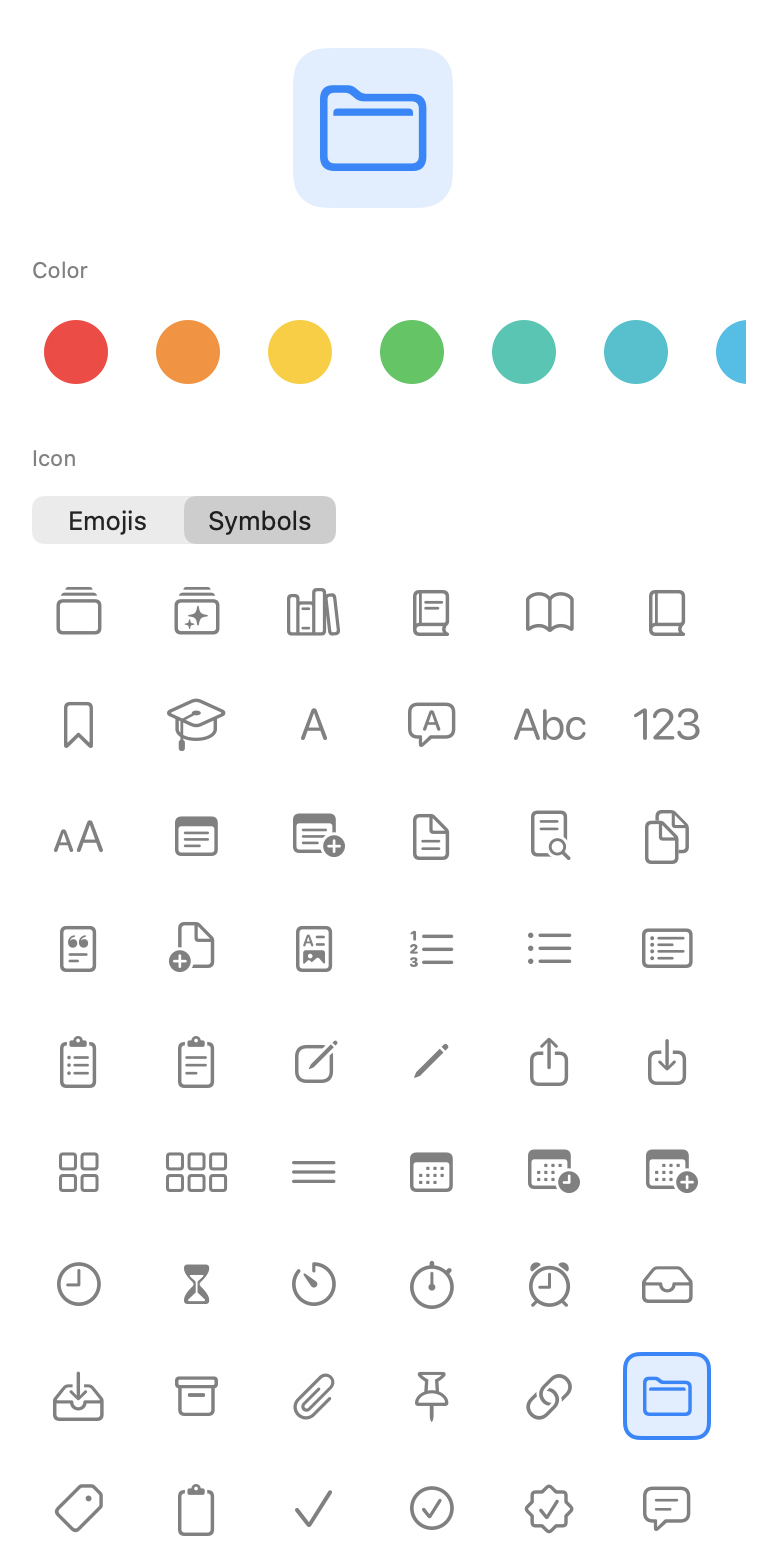
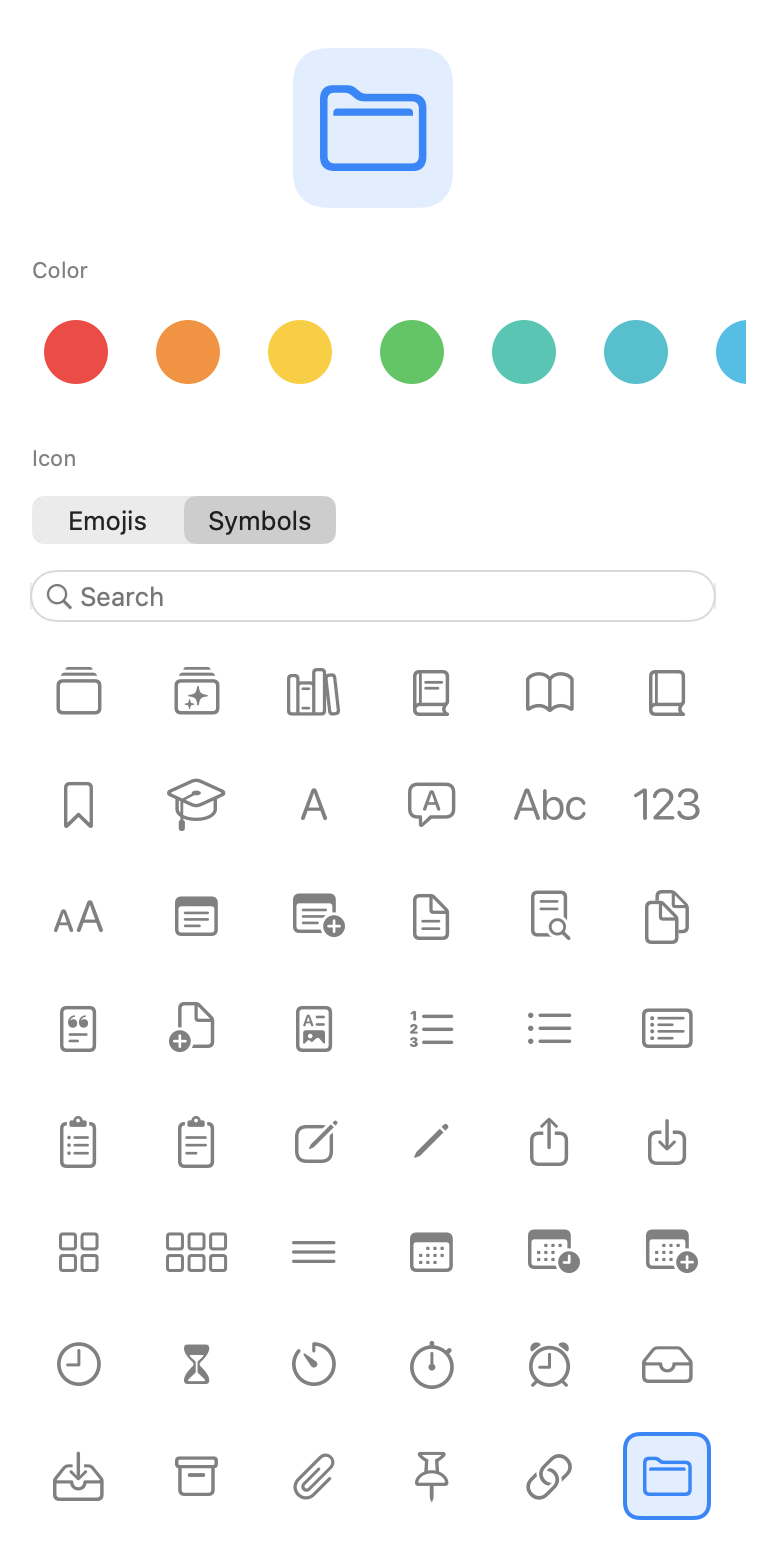
fix: put search in the catalog so stills can show it
Nav-bar searchable never appeared in offscreen captures. Use the
system search field above the grid instead.

diff --git a/Sources/IconPickerKit/IconPickerSearch.swift b/Sources/IconPickerKit/IconPickerSearch.swift
@@ -1,21 +1,105 @@
 import SwiftUI
 
-extension View {
-    func iconPickerSearch(
-        text: Binding<String>,
-        debounce: Binding<SearchDebounce>,
-        origin: ContinuousClock.Instant,
-        prompt: String) -> some View
-    {
-        self
-            .searchable(text: text, prompt: Text(prompt))
-            .onChange(of: text.wrappedValue) { _, new in
-                debounce.wrappedValue.push(new, at: ContinuousClock.now - origin)
+struct IconPickerSearchField: View {
+    @Binding var text: String
+    @Binding var debounce: SearchDebounce
+    var origin: ContinuousClock.Instant
+    var prompt: String
+
+    var body: some View {
+        PlatformSearchField(text: self.$text, prompt: self.prompt)
+            .frame(minHeight: 28)
+            .onChange(of: self.text) { _, new in
+                self.debounce.push(new, at: ContinuousClock.now - self.origin)
             }
-            .task(id: text.wrappedValue) {
-                try? await Task.sleep(for: debounce.wrappedValue.interval)
+            .task(id: self.text) {
+                try? await Task.sleep(for: self.debounce.interval)
                 guard !Task.isCancelled else { return }
-                debounce.wrappedValue.flush(at: ContinuousClock.now - origin)
+                self.debounce.flush(at: ContinuousClock.now - self.origin)
             }
     }
 }
+
+#if os(macOS)
+import AppKit
+
+struct PlatformSearchField: NSViewRepresentable {
+    @Binding var text: String
+    var prompt: String
+
+    func makeNSView(context: Context) -> NSSearchField {
+        let field = NSSearchField()
+        field.placeholderString = self.prompt
+        field.delegate = context.coordinator
+        field.sendsSearchStringImmediately = true
+        field.sendsWholeSearchString = false
+        return field
+    }
+
+    func updateNSView(_ field: NSSearchField, context: Context) {
+        if field.stringValue != self.text {
+            field.stringValue = self.text
+        }
+        field.placeholderString = self.prompt
+        context.coordinator.text = self.$text
+    }
+
+    func makeCoordinator() -> Coordinator {
+        Coordinator(text: self.$text)
+    }
+
+    final class Coordinator: NSObject, NSSearchFieldDelegate {
+        var text: Binding<String>
+
+        init(text: Binding<String>) {
+            self.text = text
+        }
+
+        func controlTextDidChange(_ notification: Notification) {
+            let field = notification.object as? NSSearchField
+            self.text.wrappedValue = field?.stringValue ?? ""
+        }
+    }
+}
+#else
+import UIKit
+
+struct PlatformSearchField: UIViewRepresentable {
+    @Binding var text: String
+    var prompt: String
+
+    func makeUIView(context: Context) -> UISearchBar {
+        let bar = UISearchBar()
+        bar.placeholder = self.prompt
+        bar.searchBarStyle = .minimal
+        bar.autocapitalizationType = .none
+        bar.autocorrectionType = .no
+        bar.delegate = context.coordinator
+        return bar
+    }
+
+    func updateUIView(_ bar: UISearchBar, context: Context) {
+        if bar.text != self.text {
+            bar.text = self.text
+        }
+        bar.placeholder = self.prompt
+        context.coordinator.text = self.$text
+    }
+
+    func makeCoordinator() -> Coordinator {
+        Coordinator(text: self.$text)
+    }
+
+    final class Coordinator: NSObject, UISearchBarDelegate {
+        var text: Binding<String>
+
+        init(text: Binding<String>) {
+            self.text = text
+        }
+
+        func searchBar(_ searchBar: UISearchBar, textDidChange searchText: String) {
+            self.text.wrappedValue = searchText
+        }
+    }
+}
+#endif

diff --git a/Sources/IconPickerKit/IconPickerRow.swift b/Sources/IconPickerKit/IconPickerRow.swift
@@ -155,7 +155,12 @@ public struct IconPickerRow: View {
     }
 
     private var emojiPopover: some View {
-        NavigationStack {
+        VStack(spacing: 8) {
+            IconPickerSearchField(
+                text: self.$query,
+                debounce: self.$debounce,
+                origin: self.origin,
+                prompt: self.labels.search)
             ScrollView {
                 LazyVGrid(columns: [GridItem(.adaptive(minimum: 36), spacing: 4)], spacing: 4) {
                     ForEach(EmojiCatalog.search(self.debounce.applied)) { item in
@@ -163,13 +168,8 @@ public struct IconPickerRow: View {
                     }
                 }
             }
-            .padding(12)
-            .iconPickerSearch(
-                text: self.$query,
-                debounce: self.$debounce,
-                origin: self.origin,
-                prompt: self.labels.search)
         }
+        .padding(12)
         .frame(width: 320, height: 240)
     }
 
@@ -195,7 +195,12 @@ public struct IconPickerRow: View {
     }
 
     private var symbolPopover: some View {
-        NavigationStack {
+        VStack(spacing: 8) {
+            IconPickerSearchField(
+                text: self.$query,
+                debounce: self.$debounce,
+                origin: self.origin,
+                prompt: self.labels.search)
             ScrollView {
                 LazyVGrid(columns: [GridItem(.adaptive(minimum: 40), spacing: 6)], spacing: 6) {
                     ForEach(SymbolCatalog.search(self.debounce.applied, in: self.symbols), id: \.self) { symbol in
@@ -203,13 +208,8 @@ public struct IconPickerRow: View {
                     }
                 }
             }
-            .padding(12)
-            .iconPickerSearch(
-                text: self.$query,
-                debounce: self.$debounce,
-                origin: self.origin,
-                prompt: self.labels.search)
         }
+        .padding(12)
         .frame(width: 320, height: 280)
     }
 

diff --git a/Sources/IconPickerKit/IconPickerView.swift b/Sources/IconPickerKit/IconPickerView.swift
@@ -57,11 +57,6 @@ public struct IconPickerView: View {
             }
             .padding(.vertical)
         }
-        .iconPickerSearch(
-            text: self.$query,
-            debounce: self.$debounce,
-            origin: self.origin,
-            prompt: self.labels.search)
     }
 
     private var preview: some View {
@@ -140,6 +135,13 @@ public struct IconPickerView: View {
             .pickerStyle(.segmented)
             .labelsHidden()
             .padding(.horizontal)
+
+            IconPickerSearchField(
+                text: self.$query,
+                debounce: self.$debounce,
+                origin: self.origin,
+                prompt: self.labels.search)
+                .padding(.horizontal)
 
             if self.mode == .emojis {
                 self.emojiGrid

diff --git a/Sources/GenerateMedia/GenerateMedia.swift b/Sources/GenerateMedia/GenerateMedia.swift
@@ -94,16 +94,8 @@ private struct ViewShot: View {
     let scheme: ColorScheme
 
     var body: some View {
-        NavigationStack {
-            IconPickerView(icon: self.$icon, color: self.$color)
-                .navigationTitle("Icon")
-                .toolbar {
-                    ToolbarItem(placement: .confirmationAction) {
-                        Button("Done") {}
-                    }
-                }
-        }
-        .preferredColorScheme(self.scheme)
+        IconPickerView(icon: self.$icon, color: self.$color)
+            .preferredColorScheme(self.scheme)
     }
 }
 

diff --git a/README.md b/README.md
@@ -8,8 +8,8 @@ A SwiftUI picker for a tint color plus an emoji or SF Symbol. Bind two values th
 ## Preview
 
 <p>
-  <img src="Docs/Media/iconpickerkit-view-light.png" width="240" alt="IconPickerView in light mode: a folder preview tinted blue, a row of color swatches, an Emojis/Symbols control on Symbols, and a grid of SF Symbols with folder selected.">
-  <img src="Docs/Media/iconpickerkit-view-dark.png" width="240" alt="IconPickerView in dark mode with the same folder, blue tint, color swatches, and symbol grid.">
+  <img src="Docs/Media/iconpickerkit-view-light.png" width="240" alt="IconPickerView in light mode: a folder preview tinted blue, color swatches, an Emojis/Symbols control, a Search field, and a grid of SF Symbols with folder selected.">
+  <img src="Docs/Media/iconpickerkit-view-dark.png" width="240" alt="IconPickerView in dark mode with the same folder, blue tint, Search field, and symbol grid.">
 </p>
 
 `IconPickerView`. Present it in a sheet; you own Done.
@@ -72,7 +72,7 @@ struct EditItemView: View {
 
 `icon` is either an emoji (`"🐶"`) or an SF Symbol name (`"folder"`). Persist `icon` and `color.id`.
 
-Search uses the system search field and filters whichever catalog is showing (emoji names/keywords or symbol names). Keystrokes debounce for 250 ms.
+Search is the system search field above the catalog and filters whichever list is showing (emoji names/keywords or symbol names). Keystrokes debounce for 250 ms.
 
 ### In a form
 

diff --git a/CHANGELOG.md b/CHANGELOG.md
@@ -10,6 +10,7 @@ All notable changes to IconPickerKit are recorded here. The format follows
 
 - README stills of `IconPickerView` and `IconPickerRow` in light and dark.
 - Platform search on both pickers, with debounce. The same query filters emojis or symbols.
+- Search is an in-catalog field (`NSSearchField` / `UISearchBar`) so it is visible without a nav bar.
 - `SymbolCatalog.search` and `SearchDebounce`.
 
 ### Changed
